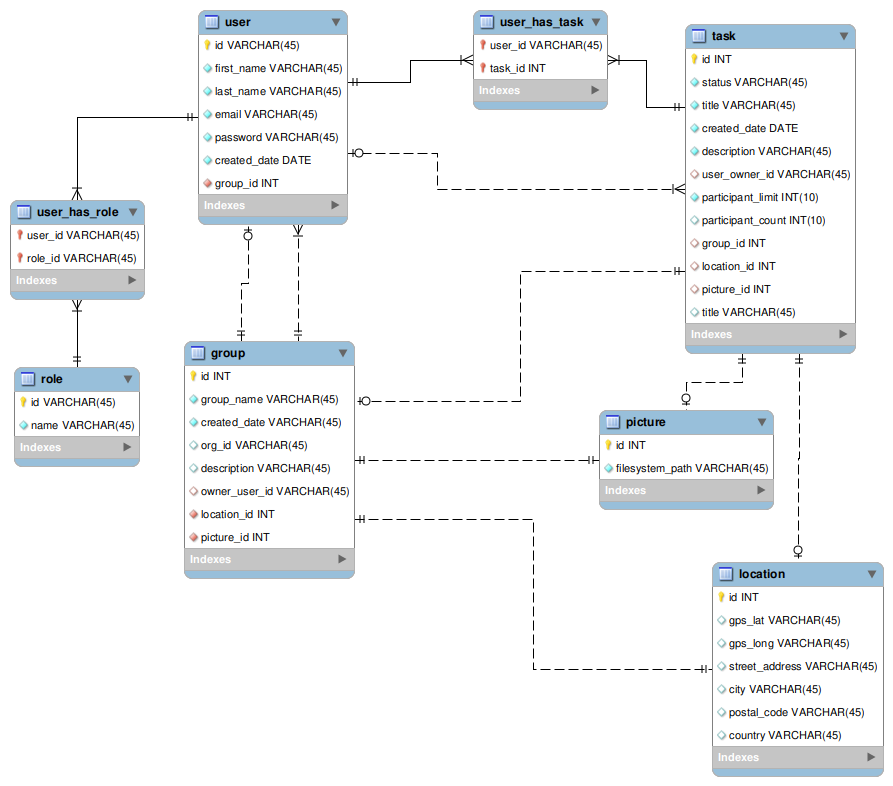
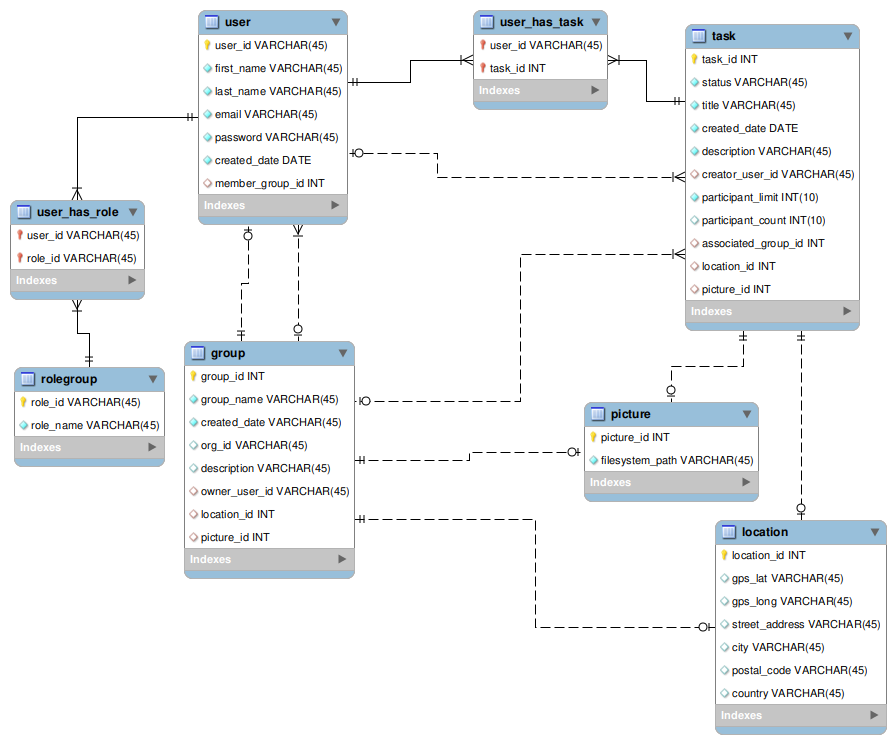
small fixes + updated model (1-N Group-Tasks)

diff --git a/appsrv/src/main/java/no/ntnu/mobapp20g6/appsrv/model/Task.java b/appsrv/src/main/java/no/ntnu/mobapp20g6/appsrv/model/Task.java
@@ -67,18 +67,24 @@ public class Task implements Serializable {
 
     // N-1 Owner
     @ManyToOne
-    @JoinColumn(name = "owner_user", referencedColumnName = "user_id")
-    private User ownerUser;
+    @JoinColumn(name = "creator_user_id", referencedColumnName = "user_id")
+    private User creatorUser;
+
+    // N-1 Owner
+    @ManyToOne
+    @JoinColumn(name = "member_group_id", referencedColumnName = "group_id")
+    private Group associatedGroup;
 
     // 1-1 Owner
     @OneToOne
-    @JoinColumn(name = "task_location", referencedColumnName = "location_id")
+    @JoinColumn(name = "location_id", referencedColumnName = "location_id")
     private Location location;
 
     // 1-1 Owner
     @OneToOne
-    @JoinColumn(name = "task_picture_", referencedColumnName = "picture_id")
+    @JoinColumn(name = "picture_id", referencedColumnName = "picture_id")
     private Picture picture;
+
 
     // M-N Owner
     @ManyToMany

diff --git a/appsrv/src/main/java/no/ntnu/mobapp20g6/appsrv/model/Group.java b/appsrv/src/main/java/no/ntnu/mobapp20g6/appsrv/model/Group.java
@@ -51,16 +51,21 @@ public class Group implements Serializable {
 
     // 1-1 Owner
     @OneToOne
-    @JoinColumn(name = "group_location_id", referencedColumnName = "location_id")
+    @JoinColumn(name = "location_id", referencedColumnName = "location_id")
     private Location location;
 
     // 1-1 Owner
     @OneToOne
-    @JoinColumn(name = "group_picture_id", referencedColumnName = "picture_id")
+    @JoinColumn(name = "picture_id", referencedColumnName = "picture_id")
     private Picture picture;
 
     // 1-N REF
     @Getter
     @OneToMany(fetch = FetchType.EAGER, mappedBy = "memberOfGroup")
     private List<User> memberUsers;
+
+    // 1-N REF
+    @Getter
+    @OneToMany(fetch = FetchType.EAGER, mappedBy = "associatedGroup")
+    private List<Task> associatedTasks;
 }

diff --git a/appsrv/src/main/java/no/ntnu/mobapp20g6/appsrv/model/User.java b/appsrv/src/main/java/no/ntnu/mobapp20g6/appsrv/model/User.java
@@ -90,13 +90,13 @@ public class User implements Serializable {
 
     // N-1 Owner
     @ManyToOne
-    @JoinColumn(name = "member_group", referencedColumnName = "group_id")
+    @JoinColumn(name = "member_group_id", referencedColumnName = "group_id")
     private Group memberOfGroup;
 
     // 1-N REF
     @Getter
-    @OneToMany(fetch = FetchType.EAGER, mappedBy = "ownerUser")
-    private List<Task> ownedTasks;
+    @OneToMany(fetch = FetchType.EAGER, mappedBy = "creatorUser")
+    private List<Task> creatorOfTasks;
 
     // N-1 REF
     @Getter
